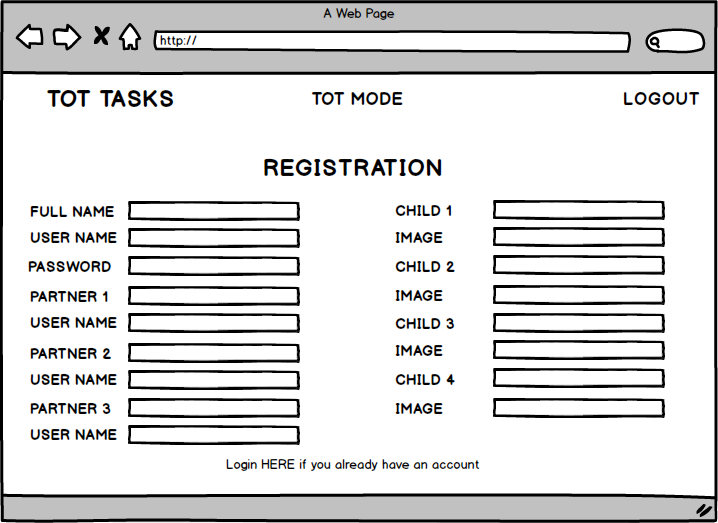
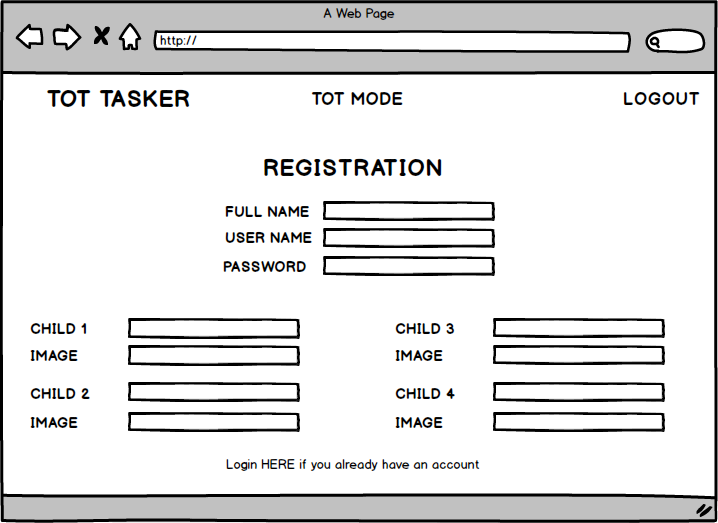
edited wireframes and routes in README

Changed region(s): [[0.0306, 0.3671, 0.9499, 0.8566], [0.5515, 0.6119, 0.6435, 0.826], [0.2145, 0.153, 0.2758, 0.2141]]

diff --git a/README.md b/README.md
@@ -27,58 +27,80 @@
 https://trello.com/b/1hGx58Q3/david-ps-capstone
 
 ## MODELS/SCHEMAS 
-* Users
-	* User Name - String
-	* Full Name - String
-	* Password - String
-	* ID - Int
-	* Tots Relation - Array
-	
-* Tots
-	* Name - String
-	* Image - Img link
-	* ID - Int
-	* Tasks Relation - Array
-	
-* Tasks
-	* Type - String
-	* Progress - Int?
-	* Rewards - String
-	* Complete - Boolean
-	* ID
+
+Family {
+	users: [User ID - ref],
+	tots: [Tot.schema],
+	taskNames: [String],
+	rewards: [String],
+	assignedTasks: [task.schema], // show on scoreboard
+	taskArchive: [task.schema], // historical
+	speedChallenges: [speedChallenge.schema]
+}
+
+Users {
+	userId: int,
+	userName: [String], 
+	fullName: [String],
+	password: [String],
+}
+
+Tots {
+	name: [String],
+	image: img,
+	totID: int
+}
+
+Task {
+	tots: tot (From above),
+	reward: reward (From above),
+	times til reward: int,
+	times so far: int,
+	date
+	taskID: 
+}
+
+SpeedChallenge {
+	task: task (From above),
+	time: 
+	taskToBump: (id)
+	howMuch: 
+}
 
 * Speed Challenge
-	* Tot Relation - ID
-	* Task - String
-	* Score - Integer
-	* Timer
 
 ## ROUTES - CRUDing 
-* Register/Login Routes
-	* register route - ('/users/register') --> POST
-	* login route - ('/users/login') --> POST
-	* logout route - ('/users/logout') --> GET
+* Register/Login Routes - Users
+	* register route - ('/user/register') --> POST
+	* login route - ('/user/login') --> POST
+	* logout route - ('/user/logout') --> GET
+	* tots post route? - ('/user/<userId>/tots') --> POST
 
-* Main Dashboard Routes
-	* main site route - ('/') --> GET
-	* tot component - lists all tots & their active tasks - ('/tots') --> GET
+* Main Dashboard Components/Routes
+	* main dashboard route - ('/user/<userId>') --> GET
+	* tot component - lists all tots & their active tasks - ('/user/<userID>/tots/tasks') --> GET
+	* tot edit component - Let's user add or subtract from task progress.  Let's 
+		user update tasks - ('/user/<userId>/tots/tasks/<taskID>/edit')
 	* scoreboard - ('/tots/<tot_id>') - GET
-	* + / - scoring component - '/tots/<tot_id>/<task_id>' --> POST
+	* + / - scoring component - ('/tots/<totID>/<taskID>') --> GET
+	* Speed Challenge - See below...
 
-* Task Adder
-	* create task route - ('/tasks') --> POST
+* Task Adder/Editer
+	* assign tots route - ('/user/<userId>/tots') --> GET
+	* add task route - ('/tasks') --> POST
     * edit task route - ('/tasks/<task_id>') --> PUT 
     * delete task route - ('/tasks/<task_id>') --> Delete
 
 * Speed Challenge
-	* tot component - /tots/<tot_id> --> GET
+	* speed challenge dashboard - ('/user/<userId>/tots/<totID>') --> GET
+	* assign tots route - ('/user/<userId>/tots') --> GET
 	* task component - ('/tasks') --> POST
 	* submit component - /tots/<tot_id>/<task_id>' --> POST
 
 
 * Tot Mode
 	* scoreboard (from above) - (/tots/<tot_id>') - GET
-	* tot component (from above) - lists all tots & their active tasks - ('/tots') --> GET
+	* tot component (from above) - lists all tots & their active tasks - ('/user/<userID>/tots/tasks') --> GET
 
 
 
